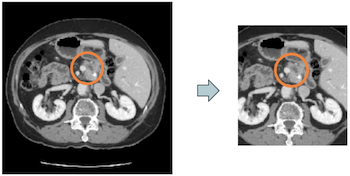
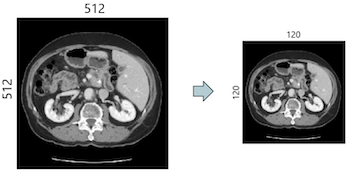
Adding more images to challenges faced

diff --git a/README.md b/README.md
@@ -19,15 +19,23 @@ train the model. Since the architecture of the net was quite complex, it took a 
 #### High amout of time
 It was observed the model needed a large amount of time to train. The first hyphotesis was the images were too big. In order to validate this hypotheis, we did the following changes:
 
+* Resizing: It actually lowered the time needed but at the same time, a lot of information was lost. So, we decided not to use it
+
 <p align="center">
     <img align="center" src="images/challenges_faced/resize.png">
 </p>
 
-* Resizing: It actually lowered the time needed but at the same time, a lot of information was lost. So, we decided not to use it
+* Crop: Image crop along axes x,y and z. Relevant information was kept. We decided to used it
 
+<p align="center">
+    <img align="center" src="images/challenges_faced/crop.png">
+</p>
 
+* Patches: Divide the image into patches. It helped tp solved computational problems. We decided to used it
 
-* sadada
+<p align="center">
+    <img align="center" src="images/challenges_faced/patches.gif">
+</p>
 
 #### Making the model learn
 
